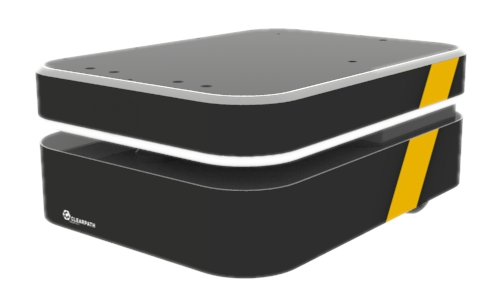
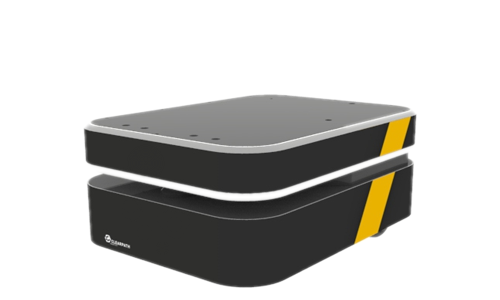
Marketing changes: Home page (ordering of robots + thumbnail changes), Husky A300 User Manual (Added Unboxing Video Guide)

diff --git a/src/data/features.tsx b/src/data/features.tsx
@@ -1,6 +1,5 @@
 import React from "react";
 import Translate, { translate } from "@docusaurus/Translate";
-
 export type FeatureItem = {
   title: string;
   image: {
@@ -10,20 +9,19 @@ export type FeatureItem = {
   };
   text: JSX.Element;
 };
-
 const FEATURES: FeatureItem[] = [
   {
     title: translate({
-      message: "JACKAL",
-      id: "homepage_jackal",
+      message: "WARTHOG",
+      id: "homepage_warthog",
     }),
     image: {
-      src: "/img/website_images/jackal_thumbnail.png",
+      src: "/img/website_images/warthog_thumbnail.png",
       width: 250,
       height: 150,
-      hyperlink: "/docs_robots/outdoor_robots/jackal/user_manual_jackal",
+      hyperlink: "/docs_robots/outdoor_robots/warthog/user_manual_warthog",
     },
-    text: <Translate id="homepage_jackal">Small Outdoor Platform</Translate>,
+    text: <Translate id="homepage_warthog">Large Outdoor Platform</Translate>,
   },
   {
     title: translate({
@@ -40,55 +38,42 @@ const FEATURES: FeatureItem[] = [
   },
   {
     title: translate({
-      message: "HUSKY A200 OBSERVER",
-      id: "homepage_husky_a200_observer",
+      message: "HUSKY A300 AMP",
+      id: "homepage_husky_a300_amp",
     }),
     image: {
-      src: "/img/website_images/husky_a200_observer_thumbnail.png",
+      src: "/img/website_images/husky_a300_amp_thumbnail.png",
       width: 114,
       height: 150,
-      hyperlink: "/docs_robots/legacy/ros1_robots/solutions/husky_a200_observer/user_manual_husky_a200_observer",
+      hyperlink: "/docs_robots/solutions/husky_a300_amp/",
     },
-    text: <Translate id="homepage_husky_a200_observer">Medium Outdoor Solution</Translate>,
+    text: <Translate id="homepage_husky_a300_amp">Medium Outdoor Solution</Translate>,
   },
   {
     title: translate({
-      message: "WARTHOG",
-      id: "homepage_warthog",
+      message: "JACKAL",
+      id: "homepage_jackal",
     }),
     image: {
-      src: "/img/website_images/warthog_thumbnail.png",
+      src: "/img/website_images/jackal_thumbnail.png",
       width: 250,
       height: 150,
-      hyperlink: "/docs_robots/outdoor_robots/warthog/user_manual_warthog",
+      hyperlink: "/docs_robots/outdoor_robots/jackal/user_manual_jackal",
     },
-    text: <Translate id="homepage_warthog">Large Outdoor Platform</Translate>,
+    text: <Translate id="homepage_jackal">Small Outdoor Platform</Translate>,
   },
   {
     title: translate({
-      message: "TURTLEBOT 4",
-      id: "homepage_turtlebot",
+      message: "RIDGEBACK",
+      id: "homepage_ridgeback",
     }),
     image: {
-      src: "/img/website_images/turtlebot_thumbnail.png",
+      src: "/img/website_images/ridgeback_thumbnail.png",
       width: 250,
       height: 150,
-      hyperlink: "/docs_robots/learning_platforms/turtlebot4",
+      hyperlink: "/docs_robots/indoor_robots/ridgeback/user_manual_ridgeback",
     },
-    text: <Translate id="homepage_turtlebot">Classroom Indoor Differential Platform</Translate>,
-  },
-  {
-    title: translate({
-      message: "DINGO",
-      id: "homepage_dingo",
-    }),
-    image: {
-      src: "/img/website_images/dingo_thumbnail.png",
-      width: 250,
-      height: 150,
-      hyperlink: "/docs_robots/indoor_robots/dingo/user_manual_dingo",
-    },
-    text: <Translate id="homepage_dingo">Small Indoor Platform, Differential And Omnidirectional Configurations</Translate>,
+    text: <Translate id="homepage_ridgeback">Large Indoor Omnidirectional Platform</Translate>,
   },
   {
     title: translate({
@@ -105,17 +90,29 @@ const FEATURES: FeatureItem[] = [
   },
   {
     title: translate({
-      message: "RIDGEBACK",
-      id: "homepage_ridgeback",
+      message: "DINGO",
+      id: "homepage_dingo",
     }),
     image: {
-      src: "/img/website_images/ridgeback_thumbnail.png",
+      src: "/img/website_images/dingo_thumbnail.png",
       width: 250,
       height: 150,
-      hyperlink: "/docs_robots/indoor_robots/ridgeback/user_manual_ridgeback",
+      hyperlink: "/docs_robots/indoor_robots/dingo/user_manual_dingo",
     },
-    text: <Translate id="homepage_ridgeback">Large Indoor Omnidirectional Platform</Translate>,
+    text: <Translate id="homepage_dingo">Small Indoor Platform, Differential And Omnidirectional Configurations</Translate>,
+  },
+  {
+    title: translate({
+      message: "TURTLEBOT 4",
+      id: "homepage_turtlebot",
+    }),
+    image: {
+      src: "/img/website_images/turtlebot_thumbnail.png",
+      width: 250,
+      height: 150,
+      hyperlink: "/docs_robots/learning_platforms/turtlebot4",
+    },
+    text: <Translate id="homepage_turtlebot">Classroom Indoor Differential Platform</Translate>,
   },
 ];
-
 export default FEATURES;
